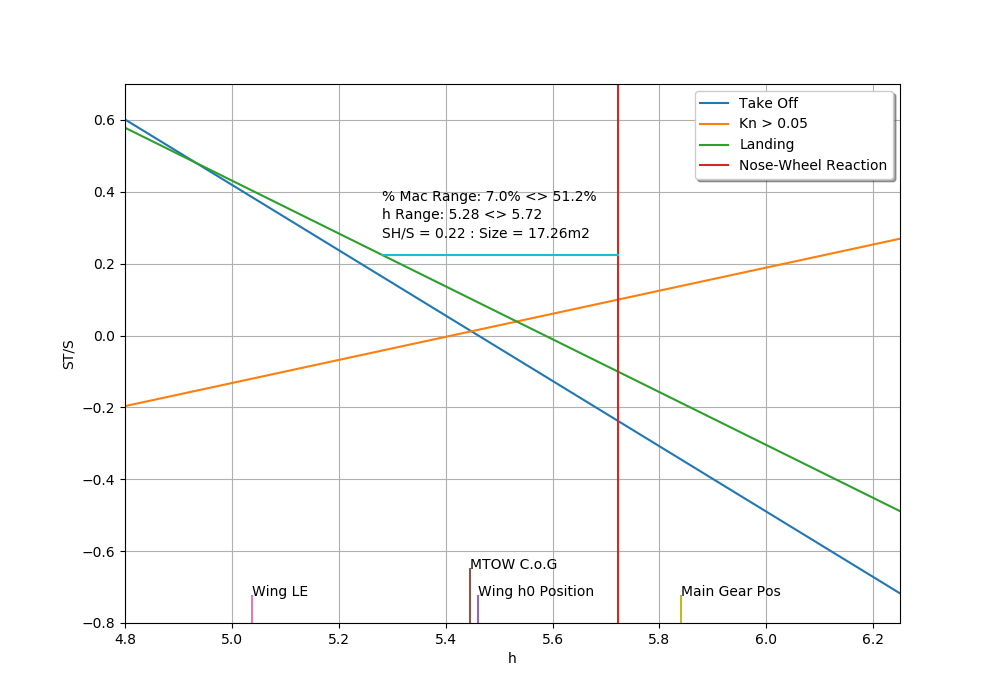
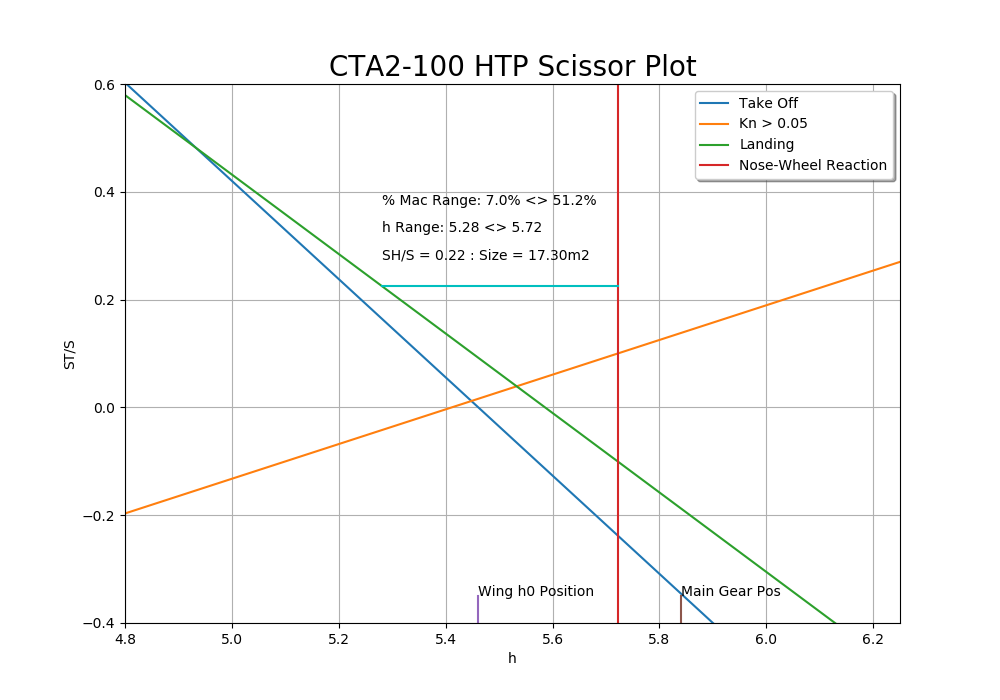
Update plots and tidy graphs

diff --git a/scissorplot.py b/scissorplot.py
@@ -129,6 +129,13 @@ def kn(h):
     return lhs_top/lhs_bottom
 
 
+def get_kn(fraction, h):
+    tail_moment_arm = (lvtp_cad_value / c_bar) - h0  # The tail moment to h
+    d_e_alpha = 0.2
+    return h0-h+(fraction*tail_moment_arm*(a1/a)*(1-d_e_alpha))
+
+
+
 def size_finder_delta(x_h, left_y, right_y, static_y, hrange):
     y_find = []
     x_find = []
@@ -207,7 +214,7 @@ def v_bar(size):
     print("v_bar: " + str(size*tail_moment_arm))
 
 
-def plotit(r1, r2, search_mac):
+def plotit(r1, r2, search_mac, ylims=None):
     # Create Range of h values
     step = 0.1
     r2 = r2 + step
@@ -232,10 +239,15 @@ def plotit(r1, r2, search_mac):
     y_heads.append(max(landing(x_h)))
 
     """This section constrains the graph correctly"""
-    max_y = myceil(max(y_heads), step)
-    #print(max_y)
-    min_y = myfloor((min(y_tails)), step)
-    #print(min_y)
+    if ylims is None:
+        max_y = myceil(max(y_heads), step)
+        #print(max_y)
+        min_y = myfloor((min(y_tails)), step)
+        #print(min_y)
+    else:
+        max_y = ylims[1]
+        min_y = ylims[0]
+
     plt.ylim(min_y, max_y)
     plt.xlim(r1, r2-0.1)
 
@@ -251,15 +263,15 @@ def plotit(r1, r2, search_mac):
     plt.plot([h0, h0], [ref_tail, ref_head])
     plt.annotate("Wing h0 Position", [h0, ref_head])
     # Plot MTOW CoG position (approx)
-    plt.plot([mtow_pos, mtow_pos], [ref_tail, ref_head+(ref_head-ref_tail)])
-    plt.annotate("MTOW C.o.G", [mtow_pos, ref_head+(ref_head-ref_tail)])
+    #plt.plot([mtow_pos, mtow_pos], [ref_tail, ref_head+(ref_head-ref_tail)])
+    #plt.annotate("MTOW C.o.G", [mtow_pos, ref_head+(ref_head-ref_tail)])
     # Plot Wing LE/TE position (approx)
     wingLE = (params['WingCentrePoint']-(params['Cr']/2))/c_bar
     wingTE = (params['WingCentrePoint'] + (params['Cr'] / 2)) / c_bar
-    plt.plot([wingLE, wingLE], [ref_tail, ref_head])
-    plt.annotate("Wing LE", [wingLE, ref_head])
-    plt.plot([wingTE, wingTE], [ref_tail, ref_head])
-    plt.annotate("Wing TE", [wingTE, ref_head])
+    #plt.plot([wingLE, wingLE], [ref_tail, ref_head])
+    #plt.annotate("Wing LE", [wingLE, ref_head])
+    #plt.plot([wingTE, wingTE], [ref_tail, ref_head])
+    #plt.annotate("Wing TE", [wingTE, ref_head])
     #Main Gear Position
     mainpos = params['MainGearPos']/c_bar
     plt.plot([mainpos, mainpos], [ref_tail, ref_head])
@@ -284,17 +296,19 @@ def plotit(r1, r2, search_mac):
     sizes.append(sizes_results[-1][2])
     size = sizes_results[sizes.index(max(sizes))]
     v_bar(size[2])
-    plt.plot([size[0], size[1]], [size[2], size[2]])
+    plt.plot([size[0], size[1]], [size[2], size[2]], 'c')
     plt.annotate("SH/S = " + str(format(size[2], '.2f')) + " : Size = " + str(format(size[2]*params['Sarea'], '.2f')) + "m2", [size[0], size[2]+0.05])
     plt.annotate("h Range: " + str(format(size[0], '.2f')) + " <> " + str(format(size[1], '.2f')), [size[0], size[2]+0.1])
     plt.annotate("% Mac Range: " + str(format(100*mac_finder_from_h(size[0]), '.1f')) + "% <> " + str(format(100*mac_finder_from_h(size[1]), '.1f')) + "%", [size[0], size[2]+0.15])
     print("h Range: " + str(format(size[0], '.2f')) + " <> " + str(format(size[1], '.2f')))
     print("% Mac Range: " + str(format(mac_finder_from_h(size[0]), '.2f')) + " <> " + str(format(mac_finder_from_h(size[1]), '.2f')))
     print("SH/S = " + str(format(size[2], '.2f')) + " : Size = " + str(format(size[2]*params['Sarea'], '.2f')) + "m2")
+    print("Min Kn = " + str(format(get_kn(size[2],size[1]), '.2f')))
     plt.grid(True)
     plt.legend(loc='upper right', shadow=True)
+    plt.title("CTA2-100 HTP Scissor Plot", size=20)
     plt.savefig("tailplot.png")
     plt.show()
 
 
-plotit(4.8, 6.25, [0.07, 0.45])
+plotit(4.8, 6.25, [0.07, 0.45], ylims=[-0.4, 0.6])
